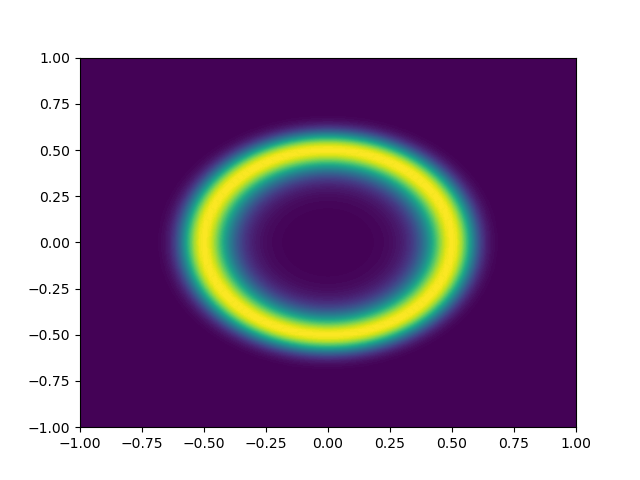
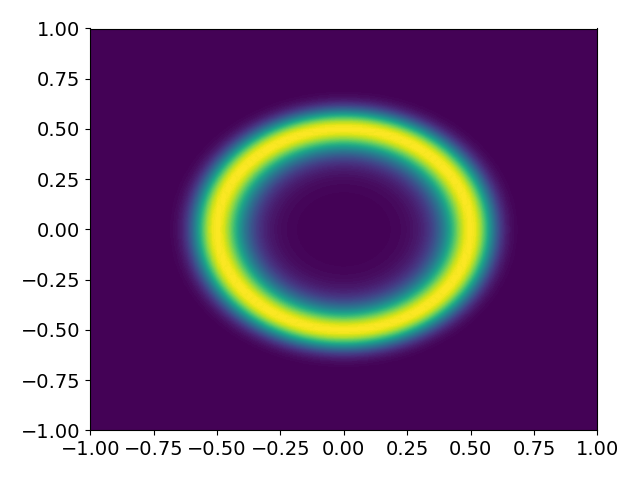
Added burn-in, continued playing with parameters of HMC, plotted potential energy.

Changed region(s): [[0.0312, 0.0312, 0.9688, 0.9688], [0.25, 0.1875, 0.8125, 0.75]]

diff --git a/code/comparison.py b/code/comparison.py
@@ -1,22 +1,67 @@
 import yaml
+import numpy as np
 import argparse
 from utils import test_example, plot_2d_kde
 from sampler import RandomWalkMCMC, HamiltonianMCMC
 from matplotlib import pyplot as plt
+from matplotlib import cm
+from matplotlib.ticker import LinearLocator
+
+# fix rcParams for plotting
+plt.rcParams.update({'font.size': 14})
+plt.rcParams.update({'lines.linewidth': 2, 'lines.markersize': 10})
+plt.rcParams.update({'figure.autolayout': True})
+
+def plot_U_pot( alpha ):
+    '''
+    Surface plot of the potential energy associated to the test_example() example.
+    
+    alpha: float, the parameter of the potential energy.
+    '''
+    fig, ax = plt.subplots(subplot_kw={"projection": "3d"})
+
+    r = np.linspace(0, .7, 100)
+    p = np.linspace(0, 2*np.pi, 100)
+    R, P = np.meshgrid(r, p)
+
+    X, Y = R*np.cos(P), R*np.sin(P)
+    U_pot = alpha * ( R**2 - 0.25 )**2
+
+    surf = ax.plot_surface(X, Y, U_pot, cmap=cm.coolwarm,
+                        linewidth=0, antialiased=False, alpha=0.5)
+    cbar = fig.colorbar(surf, shrink=0.5, aspect=5)
+
+    ax.xaxis.set_major_locator(LinearLocator(5)) # matplotlib documentation
+    ax.yaxis.set_major_locator(LinearLocator(5))
+    ax.zaxis.set_major_locator(LinearLocator(5))
+    ax.xaxis.set_major_formatter('{x:.01f}')
+    ax.yaxis.set_major_formatter('{x:.01f}')
+    ax.zaxis.set_major_formatter('{x:.01f}')
+    ax.set_xlabel('$x$')
+    ax.set_ylabel('$y$')
+    cbar.set_label('$U_{pot}$')
+    
+    plt.savefig(f'../figures/U_pot_alpha={alpha}.png')
+    return
+
 
 def sample_from_info( info, general, unnorm_logdensity, unnorm_logdensity_grad ):
     sampler = None
     if info['sampler_type'] == 'HMC':
         sampler = HamiltonianMCMC(general['seed'], general['initial_condition'], \
-                            unnorm_logdensity, unnorm_logdensity_grad, info['mass'], info['t'], info['dt'])
+                            unnorm_logdensity, general['burn_in'], unnorm_logdensity_grad, info['mass'], info['t'], info['dt'])
     elif info['sampler_type'] == 'RWMC':
         sampler = RandomWalkMCMC(general['seed'], general['initial_condition'], \
-                                 unnorm_logdensity, info['step_size'])
+                                 unnorm_logdensity, general['burn_in'], info['step_size'])
     
     return sampler.sample(general['n_chains'], general['n_samples'])
 
 
-def main(config_file):
+def main(config_file, plot_potential):
+    if plot_potential:     
+        plot_U_pot( 10 )
+        plot_U_pot( 1000 )
+
     config = None
     with open(config_file, 'r') as file:
         config = yaml.safe_load(file) 
@@ -32,10 +77,10 @@ def main(config_file):
 if __name__ == '__main__':
     parser = argparse.ArgumentParser()
     parser.add_argument('-f', '--config-file', type=str, help='Path to config file', required=True)
-    #parser.add_argument('-c', '--comparison', type=bool, help='Whether to run comparison', \
-    # required=False, default=False)
+    parser.add_argument('-p', '--plot-potential', type=bool, help='Whether to plot potential energy', \
+     required=False, default=False)
     
     args = parser.parse_args()
-    main(args.config_file) # args.config_file is a filename 
+    main(args.config_file, args.plot_potential) # args.config_file is a filename 
     #plt.show()
 

diff --git a/code/sampler.py b/code/sampler.py
@@ -5,12 +5,13 @@ class MCMCSampler(ABC):
     '''
     Abstract base class for MCMC Samplers.
     '''
-    def __init__(self, seed, initial_condition, unnorm_logdensity):
+    def __init__(self, seed, initial_condition, unnorm_logdensity, burn_in):
         self.seed = seed
         self.initial_condition = np.array(initial_condition)
         self.unnorm_logdensity = unnorm_logdensity
         # we use log densities here to avoid underflow
-
+        
+        self.burn_in = burn_in
         self.rng = np.random.default_rng(seed)
         self.state = self.initial_condition.copy()
     
@@ -42,6 +43,7 @@ class MCMCSampler(ABC):
         Returns:
         np.ndarray: Samples of shape (n_chains, n_samples, dim).
         '''
+        assert self.burn_in < n_samples, 'Burn-in period must be less than number of samples.'
         dim = len(self.initial_condition)
         samples = np.zeros((n_chains, n_samples, dim))
         acceptance_rate = 0
@@ -58,7 +60,7 @@ class MCMCSampler(ABC):
         
         acceptance_rate /= (n_chains * n_samples)
         print(f'Acceptance Rate: {acceptance_rate:.2f}')
-        return samples
+        return samples[:, self.burn_in:, :]
     
     @abstractmethod
     def proposal_step(self, current_state):
@@ -72,8 +74,8 @@ class RandomWalkMCMC(MCMCSampler):
     '''
     Random Walk MCMC sampler.
     '''
-    def __init__(self, seed, initial_condition, unnorm_logdensity, step_size):
-        super().__init__(seed, initial_condition, unnorm_logdensity)
+    def __init__(self, seed, initial_condition, unnorm_logdensity, burn_in, step_size):
+        super().__init__(seed, initial_condition, unnorm_logdensity, burn_in)
         try:
             iterator = iter(step_size)
             self.step_size = np.array(step_size)
@@ -94,8 +96,8 @@ class HamiltonianMCMC(MCMCSampler):
     '''
     Hamiltonian (or Hybrid) Monte Carlo sampler.
     '''
-    def __init__(self, seed, initial_condition, unnorm_logdensity, unnorm_logdensity_grad, mass, leapfrog_time, dt):
-        super().__init__(seed, initial_condition, unnorm_logdensity)
+    def __init__(self, seed, initial_condition, unnorm_logdensity, burn_in, unnorm_logdensity_grad, mass, leapfrog_time, dt):
+        super().__init__(seed, initial_condition, unnorm_logdensity, burn_in)
         try:
             iterator = iter(mass)
             self.mass = np.array(mass)
@@ -117,6 +119,9 @@ class HamiltonianMCMC(MCMCSampler):
             proposed_momentum += 0.5 * self.dt * self.unnorm_logdensity_grad(proposed_state)
             proposed_state += self.dt * proposed_momentum
             proposed_momentum += 0.5 * self.dt * self.unnorm_logdensity_grad(proposed_state)
+            #print(proposed_momentum, proposed_state)
+            #time.sleep(1)
+
         
         current_energy = -self.unnorm_logdensity(current_state) + np.dot(momentum,momentum) / 2
         proposed_energy = -self.unnorm_logdensity(proposed_state) + np.dot(proposed_momentum,proposed_momentum) / 2

diff --git a/code/utils.py b/code/utils.py
@@ -2,6 +2,7 @@ import numpy as np
 import seaborn as sns
 import matplotlib.pyplot as plt
 
+
 def test_example( alpha, beta=0.25, plot=False ):
     '''
     Test function for the unnormalized density.

diff --git a/repartition.md b/repartition.md
@@ -18,8 +18,18 @@
 
 
 // Things to explore
-// - asymmetric masses 
-// - small vs big masses (dt probably needs to be adjusted)
-// - long integration time (rejection increase vs correlation decrease)
-// - dt size (precision vs speed)
-// - 
+- asymmetric masses (we loose symmetry alignment with problem??)
+- small vs big masses 
+  - too small will hurt exploration (as won't move far from IC), and therefore increase correlation
+  - too large will need lower dt to avoid numerical errors (so computation time increase or acceptance deteriorates)
+- long integration time 
+  - long will increase errors (and so rejection-rate) at fixed dt
+    - this coupling with dt often reason for using number of integration steps instead ?
+  - long will decrease correlation  
+- dt size 
+  - too low will take longer computation time
+  - too high will hurt precision (and so decrease acceptance rate)
+- rwmc vs hmc 
+  - hmc gives lower correlation samples (if well tuned)
+  - hmc gives higher acceptance rate (if well tuned)
+  - will probably have longer runtime (so hmc preferred when trade-off more than compensates)
